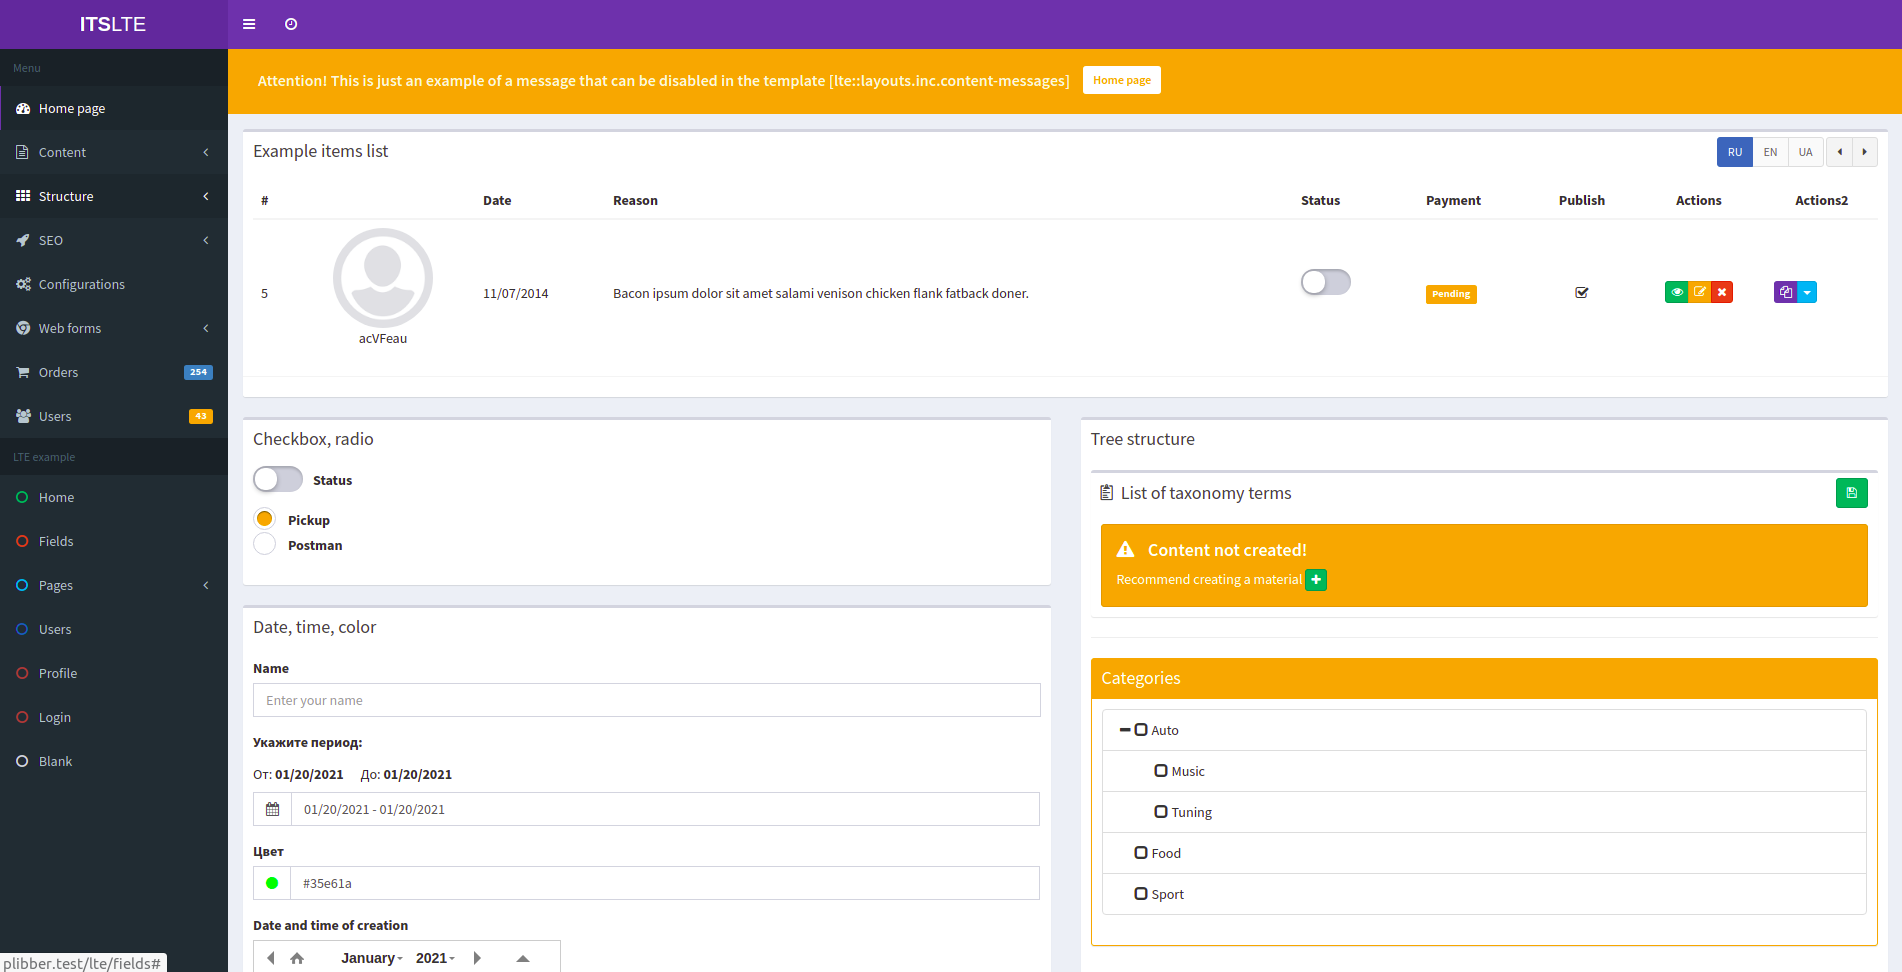
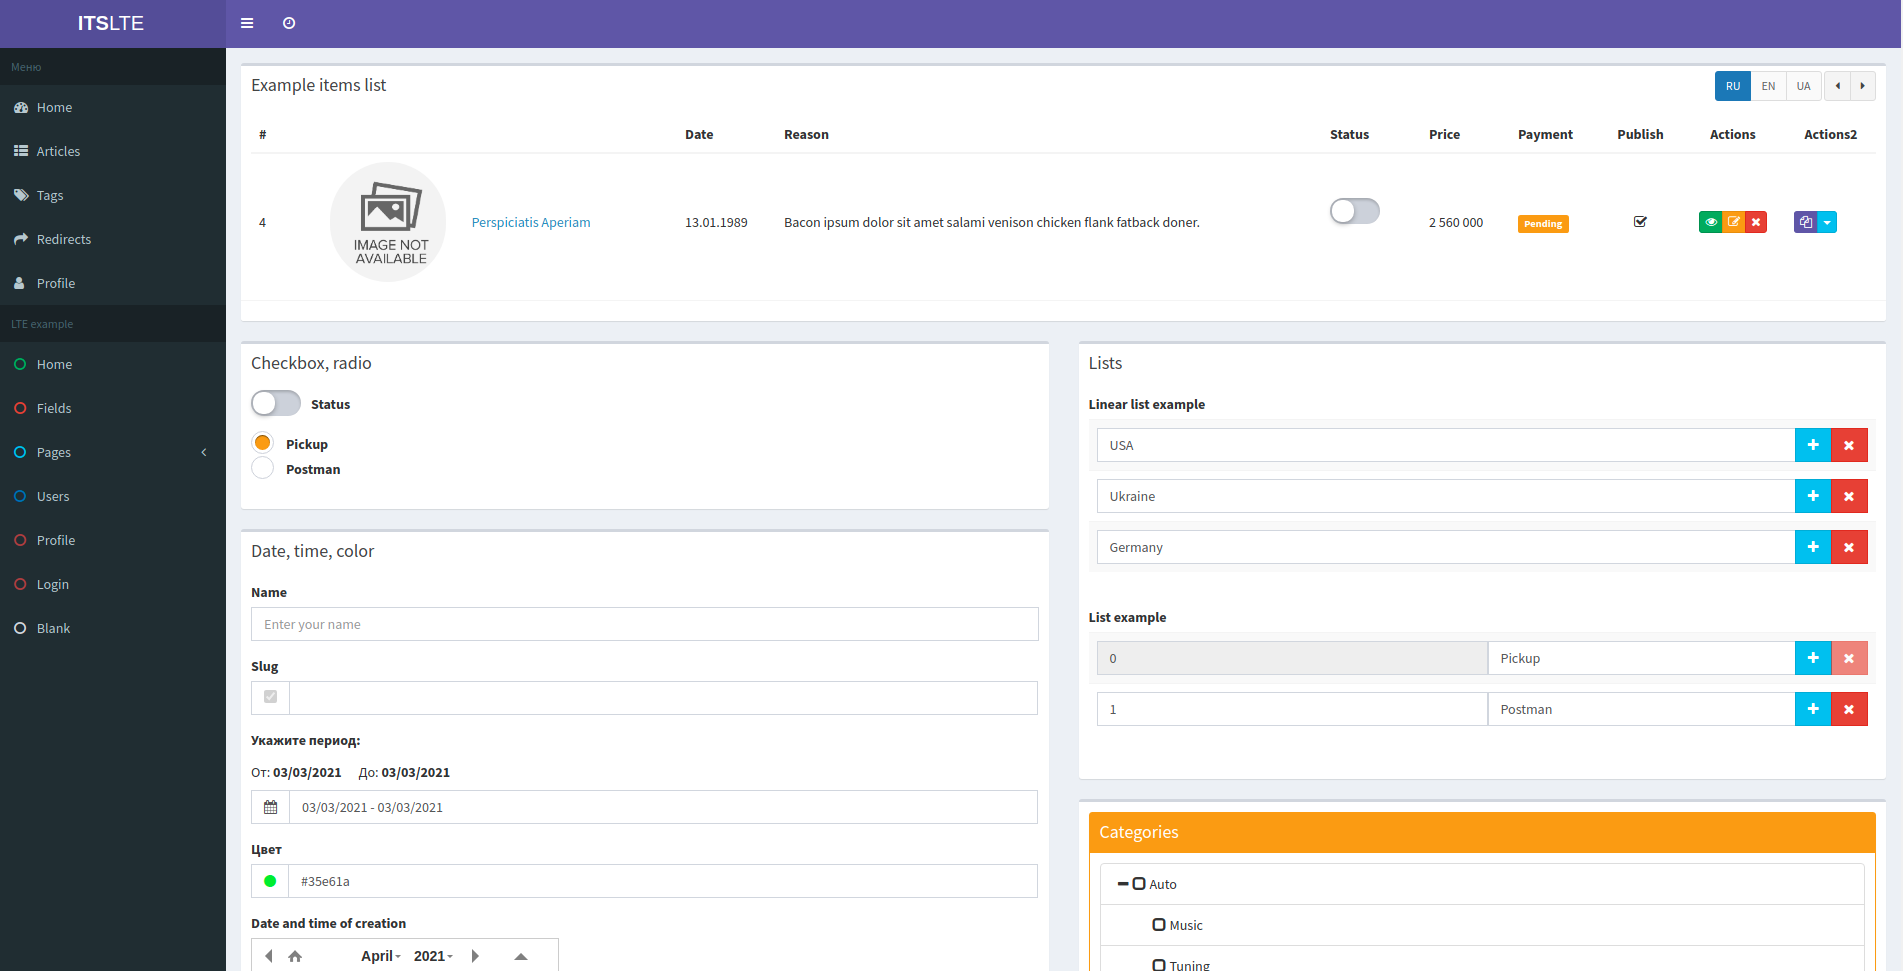
Refactor forms, upd scripts

diff --git a/public/js/dashboard.js b/public/js/dashboard.js
@@ -242,18 +242,28 @@ $(function () {
         var $form = $('#js-action-form'),
             $this = $(this),
             method = $this.data('method') || 'POST',
-            strConfirm = $this.data('confirm') || translates.notifications.confirmAction || 'Confirm action?',
+            strConfirm = $this.data('confirm') ? confirm($this.data('confirm')) : true,
             destination = $(this).data('destination'),
             url = $(this).data('url');
-        if (url && $form && confirm(strConfirm)) {
+        
+        if (url && $form && strConfirm) {
             $form.find('input[name="_method"]').val(method)
             if (destination) {
-                $form.find('input[name="destination"]').val(destination)
+                $form.find('input.js-destination-val').val(destination)
             }
             $form.attr('action', url).submit()
         }
         return false
-    })
+    });
+
+    // 10000 -> 10 000
+    $('.js-num-format').each(function (index, value) {
+        var number = parseFloat(value.textContent);
+        value.textContent = numberWithSpaces(number);
+    });
+    function numberWithSpaces(x) {
+        return x.toString().replace(/\B(?=(\d{3})+(?!\d))/g, " ");
+    }
 
     if ($('.select2.select2-static').length) {
         $('.select2.select2-static').select2({

diff --git a/resources/js/dashboard.js b/resources/js/dashboard.js
@@ -242,18 +242,28 @@ $(function () {
         var $form = $('#js-action-form'),
             $this = $(this),
             method = $this.data('method') || 'POST',
-            strConfirm = $this.data('confirm') || translates.notifications.confirmAction || 'Confirm action?',
+            strConfirm = $this.data('confirm') ? confirm($this.data('confirm')) : true,
             destination = $(this).data('destination'),
             url = $(this).data('url');
-        if (url && $form && confirm(strConfirm)) {
+        
+        if (url && $form && strConfirm) {
             $form.find('input[name="_method"]').val(method)
             if (destination) {
-                $form.find('input[name="destination"]').val(destination)
+                $form.find('input.js-destination-val').val(destination)
             }
             $form.attr('action', url).submit()
         }
         return false
-    })
+    });
+
+    // 10000 -> 10 000
+    $('.js-num-format').each(function (index, value) {
+        var number = parseFloat(value.textContent);
+        value.textContent = numberWithSpaces(number);
+    });
+    function numberWithSpaces(x) {
+        return x.toString().replace(/\B(?=(\d{3})+(?!\d))/g, " ");
+    }
 
     if ($('.select2.select2-static').length) {
         $('.select2.select2-static').select2({

diff --git a/public/css/dashboard.css b/public/css/dashboard.css
@@ -202,6 +202,11 @@ img {
 	font-weight: 600;
 }
 
+img.thumbnail-100 {
+	max-height: 120px;
+	max-width: 120px;
+	border-radius: 100px;
+}
 img.thumbnail-50 {
 	height: 100px;
 	border-radius: 50%
@@ -212,6 +217,18 @@ img.thumbnail-10 {
 }
 img.thumbnail-0 {
 	height: 100px;
+}
+.node-row-title {
+	display:inline-block;
+	width: 180px;
+	vertical-align: middle;
+	padding: 0 15px
+}
+.node-row-title i {
+	opacity: 0;
+}
+.node-row-title:hover i {
+	opacity: 1;
 }
 
 .navbar-nav.filter-languages span {

diff --git a/resources/css/dashboard.css b/resources/css/dashboard.css
@@ -202,6 +202,11 @@ img {
 	font-weight: 600;
 }
 
+img.thumbnail-100 {
+	max-height: 120px;
+	max-width: 120px;
+	border-radius: 100px;
+}
 img.thumbnail-50 {
 	height: 100px;
 	border-radius: 50%
@@ -212,6 +217,18 @@ img.thumbnail-10 {
 }
 img.thumbnail-0 {
 	height: 100px;
+}
+.node-row-title {
+	display:inline-block;
+	width: 180px;
+	vertical-align: middle;
+	padding: 0 15px
+}
+.node-row-title i {
+	opacity: 0;
+}
+.node-row-title:hover i {
+	opacity: 1;
 }
 
 .navbar-nav.filter-languages span {

diff --git a/resources/views/content/fields.blade.php b/resources/views/content/fields.blade.php
@@ -33,6 +33,7 @@
                                     <th>Date</th>
                                     <th>Reason</th>
                                     <th>Status</th>
+                                    <th>Price</th>
                                     <th>Payment</th>
                                     <th class="text-center">Publish</th>
                                     <th class="text-center">Actions</th>
@@ -40,26 +41,31 @@
                                 </tr>
                             </thead>
                             <tbody>
-                                @for($i = 1; $i <= 5; $i++)
+                                @for($i = 1; $i <= 4; $i++)
                                 <tr>
                                     <td>{{ $i }}</td>
                                     <td class="text-center">
                                         <a href="#" target="_blank">
-                                            <img src="/vendor/its-lte/img/no-avatar.png" class="thumbnail-50">
+                                            <img src="/vendor/its-lte/img/no-image.png" class="thumbnail-100">
                                         </a>
-                                        <p>{{ Str::random(7, 12) }}</p>
+                                        <span class="node-row-title">
+                                            <a href="/vendor/its-lte/img/no-image.png">
+                                                Perspiciatis Aperiam <i class="fa fa-pencil"></i>
+                                            </a>
+                                        </span>
                                     </td>
-                                    <td>11/07/2014</td>
+                                    <td>13.01.1989</td>
                                     <td>Bacon ipsum dolor sit amet salami venison chicken flank fatback doner.</td>
                                     <td>
                                         @include('lte::fields.field-checkbox-ajax', [
-                                            //'label' => 'Статус',
                                             'field_name' => 'status['.$i.']',
                                             'raw_name' => 'status',
-                                            //'format' => 'name|value',
-                                            'status' => 0,
+                                            'status' => $i % 2,
                                             'url' => route('lte.data.status'),
                                         ])
+                                    </td>
+                                    <td>
+                                        <span class="js-num-format">{{ pow($i*10, $i) }}</span>
                                     </td>
                                     <td>
                                         <span class="label label-warning">Pending</span>

diff --git a/resources/views/content/users/index.blade.php b/resources/views/content/users/index.blade.php
@@ -34,18 +34,31 @@
                         @foreach($users as $user)
                         <tr>
                             <td>{{ $user->id }}</td>
-                            <td>{{ $user->name }}</td>
+                            <td class="text-center">
+                                <a href="/vendor/its-lte/img/no-avatar.png" target="_blank">
+                                    <img src="/vendor/its-lte/img/no-avatar.png" class="thumbnail-100">
+                                </a>
+                                <span class="node-row-title">
+                                    <a href="/vendor/its-lte/img/no-avatar.png">
+                                        {{ $user->name }} <i class="fa fa-pencil"></i>
+                                    </a>
+                                </span>
+                            </td>
                             <td>{{ $user->email }}</td>
                             <td>{{ $user->phone }}</td>
                             <td>{{ $user->role }}</td>
                             <td style="text-align: center">
-                                @if($user->active)<i class="fa fa-check-square-o"></i>@else<i class="fa fa-square-o"></i>@endif
+                                @if($user->is_active)
+                                    <i class="fa fa-check-square-o"></i>
+                                @else
+                                    <i class="fa fa-square-o"></i>
+                                @endif
                             </td>
                             <td>{{ $user->created_at }}</td>
                             <td style="width: 110px">
                                 <div class="btn-group">
-                                    <a href="{{ route('admin.users.edit', $user) }}" class="btn btn-xs btn-warning"><i class="fa fa-edit"></i></a>
-                                    <a href="#" data-url="{{ route('admin.users.destroy', $user) }}" class="btn btn-xs btn-danger js-action-form" data-method="DELETE"><i class="fa fa-remove"></i></a>
+                                    <a href="{{ route('users.edit', $user) }}" class="btn btn-xs btn-warning"><i class="fa fa-edit"></i></a>
+                                    <a href="#" data-url="{{ route('users.destroy', $user) }}" class="btn btn-xs btn-danger js-action-form" data-method="DELETE"><i class="fa fa-remove"></i></a>
                                 </div>
                             </td>
                         </tr>
@@ -58,7 +71,7 @@
 
             <div class="box-footer">
                 <div class="pull-right">
-    {{--                @include('lte::parts.pagination', ['pages' => $users])--}}
+                    @includeWhen('lte::parts.pagination', ['pages' => $users])
                 </div>
             </div>
         </div>

diff --git a/resources/views/content/pages/index.blade.php b/resources/views/content/pages/index.blade.php
@@ -33,15 +33,19 @@
                             <td>{{ $page->id }}</td>
                             <td>{{ $page->name }}</td>
                             <td style="text-align: center">
-                                @if($page->publish)<i class="fa fa-check-square-o"></i>@else<i class="fa fa-square-o"></i>@endif
+                                @if($page->status === 'publish')
+                                    <i class="fa fa-check-square-o"></i>
+                                @else
+                                    <i class="fa fa-square-o"></i>
+                                @endif
                             </td>
                             <td>{{ $page->blade ?? trans('lte::main.Default') }}</td>
 
                             <td style="width: 110px">
                                 <div class="btn-group">
                                     <a href="{{ route('pages.show', $page) }}" target="_blank" class="btn btn-xs btn-success"><i class="fa fa-eye"></i></a>
-                                    <a href="{{ route('admin.pages.edit', $page) }}" class="btn btn-xs btn-warning"><i class="fa fa-edit"></i></a>
-                                    <a href="#" data-url="{{ route('admin.users.destroy', $page) }}" class="btn btn-xs btn-danger js-action-form" data-method="DELETE"><i class="fa fa-remove"></i></a>
+                                    <a href="{{ route('pages.edit', $page) }}" class="btn btn-xs btn-warning"><i class="fa fa-edit"></i></a>
+                                    <a href="#" data-url="{{ route('users.destroy', $page) }}" class="btn btn-xs btn-danger js-action-form" data-method="DELETE"><i class="fa fa-remove"></i></a>
                                 </div>
                             </td>
                         </tr>
@@ -54,7 +58,7 @@
 
             <div class="box-footer">
                 <div class="pull-right">
-                    {{--@include('lte::parts.pagination', ['pages' => $pages])--}}
+                    @includeWhen(isset($pages), 'lte::parts.pagination', ['pages' => $pages])
                 </div>
             </div>
         </div>

diff --git a/resources/views/content/users/_form.blade.php b/resources/views/content/users/_form.blade.php
@@ -1,7 +1,7 @@
 @include('lte::fields.field-checkbox', [
     'label' => trans('lte::main.active'),
-    'field_name' => 'active',
-    'status' => isset($user) ? $user->active : 1,
+    'field_name' => 'is_active',
+    'status' => isset($user) ? $user->is_active : 1,
 ])
 
 @if(!empty($user->data['password']))
@@ -58,10 +58,4 @@
     'old' => old('roles')
 ])
 
-@include('lte::fields.field-form-buttons', [
-    //'url_store_and_create' => route('admin.users.create'),
-    //'url_store_and_close' => session('admin.users.index'),
-    //'url_destroy' => isset($user) ? route('admin.users.destroy', $user) : '',
-    //'url_after_destroy' => session('admin.users.index'),
-    'url_close' => session('admin.users.index'),
-])
+@include('lte::fields.field-form-buttons')

diff --git a/resources/views/content/users/edit.blade.php b/resources/views/content/users/edit.blade.php
@@ -13,7 +13,7 @@
                 <div class="box">
                     {!! Form::model($user, [
                         'method' => 'PATCH',
-                        'route' => ['admin.users.update', $user],
+                        'route' => ['users.update', $user],
                         'files' => true
                     ]) !!}
                     <div class="box-header">

diff --git a/resources/views/layouts/inc/end.blade.php b/resources/views/layouts/inc/end.blade.php
@@ -104,8 +104,8 @@
 
 <form action="" class="hidden" method="POST" id="js-action-form">
     @csrf
-    @method('POST')
-    <input type="hidden" name="destination" value="{{ Request::fullUrl() }}">
+    <input type="hidden" name="_method" value="POST">
+    <input type="hidden" name="destination" value="{{ Request::fullUrl() }}" class="js-destination-val">
 </form>
 
 <script>

diff --git a/resources/views/content/users/create.blade.php b/resources/views/content/users/create.blade.php
@@ -12,7 +12,7 @@
             <div class="col-lg-8 col-lg-offset-2">
                 <div class="box">
                     {!! Form::open([
-                         'route' => 'admin.users.store',
+                         'route' => 'users.store',
                          'files' => true
                     ]) !!}
                     <div class="box-header">

diff --git a/README.md b/README.md
@@ -26,7 +26,7 @@ php artisan lte:install
 
 That's all. You can usage ITS LTE in your project :) 
 
-Visit the path `http://your-site.local/lte` 
+Visit the path `http://your-site.test/lte` 
 
 
 ## Publishing (optional)
